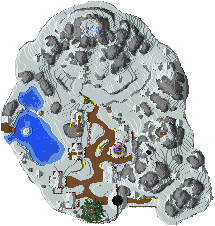
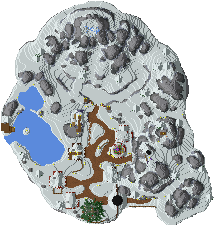
offsets

Changed region(s): [[0.0279, 0.4027, 0.2791, 0.7434]]

diff --git a/src/main/java/com/thatgravyboat/skyblockhud/handlers/MapHandler.java b/src/main/java/com/thatgravyboat/skyblockhud/handlers/MapHandler.java
@@ -74,7 +74,7 @@ public class MapHandler {
         THEEND(1f, 338, 283, 787, 403, 788, 406, new ResourceLocation("skyblockhud", "maps/end.png"), Collections.emptyList()),
         DN(1f, 171, 219, 145, 87, 144, 90, new ResourceLocation("skyblockhud", "maps/dn.png"), Collections.emptyList()),
         GOLDMINE(2f, 134, 134, 278, 278, 144, 90, new ResourceLocation("skyblockhud", "maps/gold.png"), Collections.emptyList()),
-        JERRY(1f, 215, 226, 88, 86, 88, 90, new ResourceLocation("skyblockhud", "maps/jerry.png"), Collections.emptyList());
+        JERRY(1f, 215, 226, 96, 96, 96, 96, new ResourceLocation("skyblockhud", "maps/jerry.png"), Collections.emptyList());
 
         public float scaleFactor;
         public int width;
